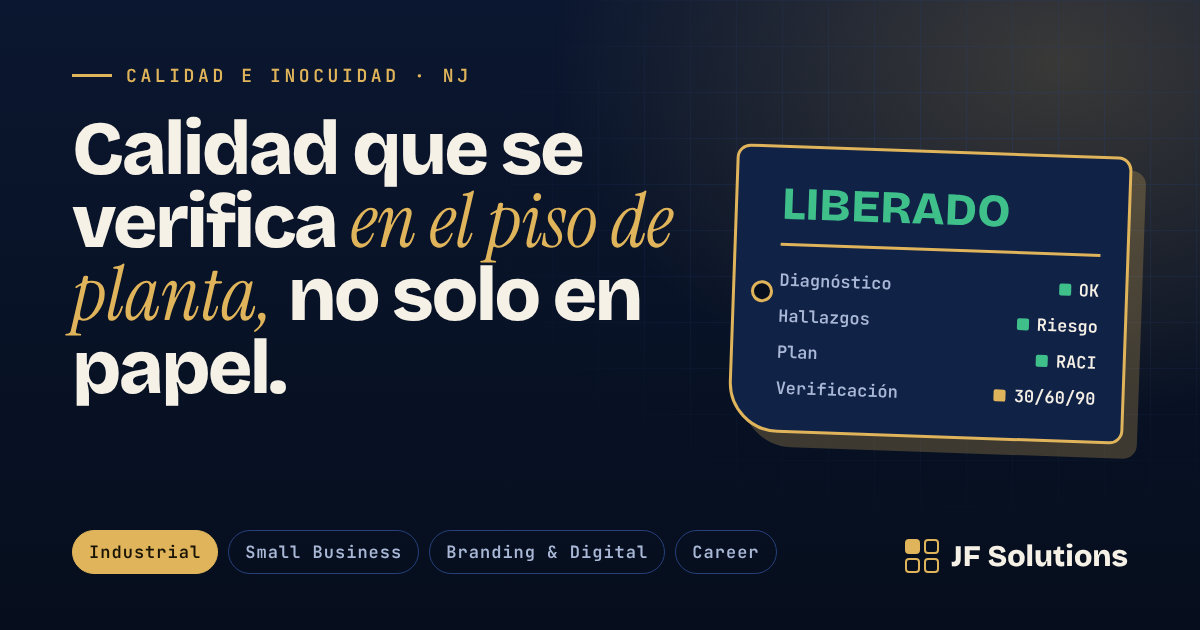
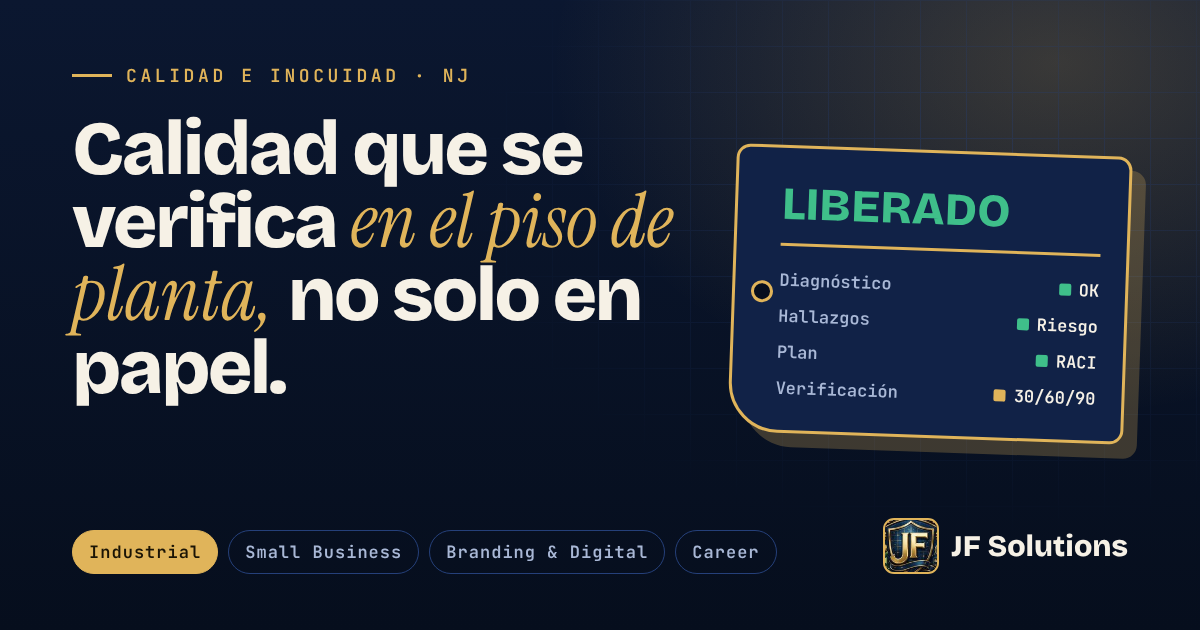
Ajustes de revisión: mensaje más directo y mejor uso del espacio en celular
- Números 2-4 de "El orden en que tomo decisiones" en azul marino (legibles sobre crema)
- og.png usa el emblema JF real, el mismo del encabezado
- La pestaña ya no vuelve al título viejo al cambiar de sección (ES/EN)
- Botón "Pausar animación" visible también en celular
- Texto del héroe y de las divisiones más corto y directo
- Celular: héroe, etiqueta LIBERADO y paneles más compactos

Claude-Session: https://claude.ai/code/session_01QJvM7U9R3YGMbxD8ijpk4k

Changed region(s): [[0.7092, 0.8143, 0.9558, 0.9349]]

diff --git a/index.html b/index.html
@@ -178,7 +178,8 @@ h3{text-wrap:balance}
 .priorities li:first-child h3{color:var(--ivory)}
 .priorities li:first-child p{color:var(--mist)}
 .priorities li:last-child{border-right:0}
-.p-num{font:800 52px/1 var(--display);color:var(--gold);display:block;margin-bottom:14px}
+.p-num{font:800 52px/1 var(--display);color:var(--paper-ink);display:block;margin-bottom:14px}
+.priorities li:first-child .p-num{color:var(--gold)}
 .priorities h3{font:800 22px/1.12 var(--display);margin:0 0 8px}
 .priorities p{margin:0;font-size:15px}
 .note{margin:22px 0 0;font-weight:700;color:var(--paper-ink)!important}
@@ -359,7 +360,8 @@ details[open] .svc-plus{transform:rotate(45deg);background:var(--gold);color:var
   .quick{display:flex;flex-wrap:wrap;gap:8px;margin:0 0 16px}
   .quick a{text-decoration:none;font:600 14px var(--body);border:1px solid var(--line);border-radius:999px;padding:8px 13px;white-space:nowrap}
   .quick a:first-child{background:var(--gold);color:var(--on-gold);border-color:var(--gold)}
-  .pause{display:none}
+  .areas-head{align-items:center}
+  .pause{padding:8px 12px;font-size:12px}
   .panels{flex-direction:column;height:auto;gap:12px}
   .p,.p.on{flex:none;height:auto;min-height:380px;border-color:var(--line)}
   .p[data-d="0"]{min-height:410px;border-color:var(--gold)}
@@ -413,6 +415,34 @@ details[open] .svc-plus{transform:rotate(45deg);background:var(--gold);color:var
   .reto-card{grid-template-columns:1fr;padding:24px}
   .about-card::after{font-size:150px}
 }
+@media (max-width:640px){
+  .hero{padding:28px 0 8px}
+  .hero .wrap{gap:28px}
+  .eyebrow{margin-bottom:12px}
+  h1{font-size:clamp(34px,9.6vw,44px);margin-bottom:14px}
+  .lead{font-size:16px;margin-bottom:20px}
+  .hero .btn-ghost{display:none}
+  .hero .btn-main{width:100%}
+  .tag{max-width:none;padding:16px 16px 14px 32px;transform:rotate(1deg);box-shadow:6px 6px 0 rgba(224,180,90,.25)}
+  .tag-title{font-size:24px}
+  .tag dl{font-size:13.5px;gap:6px 12px}
+  .tag-foot{display:none}
+  .areas{padding:28px 0 48px}
+  .areas-head{margin-bottom:12px}
+  .areas-head h2{font-size:26px}
+  .areas-head p{font-size:15px;margin-top:4px}
+  .quick{gap:6px;margin-bottom:12px}
+  .quick a{font-size:13px;padding:7px 11px}
+  .panels{gap:10px}
+  .p,.p.on{min-height:270px;border-radius:20px}
+  .p[data-d="0"]{min-height:300px}
+  .p .art,.p.on .art{top:38px;width:min(36%,150px)}
+  .p .ptag{top:16px;left:18px;right:18px}
+  .p .copy{padding:16px 18px 18px;gap:9px}
+  .p .q{font-size:clamp(23px,6.4vw,28px)}
+  .chips > span{font-size:12px;padding:4px 9px}
+  .enter{padding:10px 15px;font-size:15px}
+}
 @media (max-width:380px){.mbar{grid-template-columns:1fr 1fr}.mbar .m-areas{display:none}}
 @media (prefers-reduced-motion:reduce){*,*::before,*::after{animation:none!important;transition:none!important;scroll-behavior:auto!important}.n2,.n1{display:none}}
 </style>
@@ -452,8 +482,8 @@ details[open] .svc-plus{transform:rotate(45deg);background:var(--gold);color:var
       <p class="eyebrow mono"><span lang="es">Calidad e inocuidad · Nueva Jersey</span><span lang="en">Quality &amp; food safety · New Jersey</span></p>
       <h1 lang="es">Calidad e inocuidad que se verifican <em class="g">en el piso de planta,</em> no solo en papel.</h1>
       <h1 lang="en">Quality and food safety verified <em class="g">on the plant floor,</em> not just on paper.</h1>
-      <p class="lead" lang="es">Ayudo a plantas procesadoras de alimentos y bebidas a entender su realidad, priorizar lo que de verdad importa y cerrar cada acción con evidencia. Ese mismo rigor lo llevo a pequeños negocios, marcas y personas que buscan empleo.</p>
-      <p class="lead" lang="en">I help food and beverage processing plants understand where they really stand, prioritize what matters and close every action with evidence. I bring that same rigor to small businesses, brands and job seekers.</p>
+      <p class="lead" lang="es">Ayudo a plantas de alimentos y bebidas a priorizar lo que importa y cerrar cada acción con evidencia. El mismo rigor, aplicado a tu negocio, tu marca y tu carrera.</p>
+      <p class="lead" lang="en">I help food and beverage plants prioritize what matters and close every action with evidence. The same rigor, applied to your business, your brand and your career.</p>
       <div class="actions">
         <a class="btn btn-main" href="#contacto" data-div="industrial"><span lang="es">Agenda un diagnóstico</span><span lang="en">Book an assessment</span></a>
         <a class="btn btn-ghost" href="#divisiones"><span lang="es">Ver las cuatro divisiones</span><span lang="en">See all four divisions</span></a>
@@ -486,8 +516,8 @@ details[open] .svc-plus{transform:rotate(45deg);background:var(--gold);color:var
     <div class="areas-head">
       <div>
         <h2><span lang="es">Cuatro divisiones, <em class="g">un mismo</em> estándar</span><span lang="en">Four divisions, <em class="g">one</em> standard</span></h2>
-        <p lang="es">Industrial es la base. Las otras tres aplican el mismo método a tu negocio, tu marca y tu carrera.</p>
-        <p lang="en">Industrial is the foundation. The other three apply the same method to your business, your brand and your career.</p>
+        <p lang="es">Elige la tuya. Industrial es la base; las otras tres usan el mismo método.</p>
+        <p lang="en">Pick yours. Industrial is the foundation; the other three use the same method.</p>
       </div>
       <button class="pause" type="button" id="pause" aria-pressed="false">
         <svg viewBox="0 0 16 16" fill="currentColor" aria-hidden="true"><rect x="3" y="2" width="3.5" height="12" rx="1"/><rect x="9.5" y="2" width="3.5" height="12" rx="1"/></svg>
@@ -1049,7 +1079,7 @@ details[open] .svc-plus{transform:rotate(45deg);background:var(--gold);color:var
   function jump(el){el.scrollIntoView({behavior:'instant',block:'start'});setTimeout(function(){el.scrollIntoView({behavior:'instant',block:'start'});},350);}
   function onHash(){
     var h=location.hash.slice(1);
-    document.title=DIV[h]?DIV[h].es+' | JF Solutions':'JF Solutions | Industria, negocios, marca y carrera';
+    document.title=DIV[h]?DIV[h].es+' | JF Solutions':(L()==='en'?'JF Solutions | Plant-floor quality and food safety, business, brand and career':'JF Solutions | Calidad e inocuidad en planta, negocios, marca y carrera');
     if(DIV[h]){window.scrollTo(0,0);return;}
     if(pending){fillForm(pending.div,pending.svc);pending=null;}
     var el=h&&document.getElementById(h);
